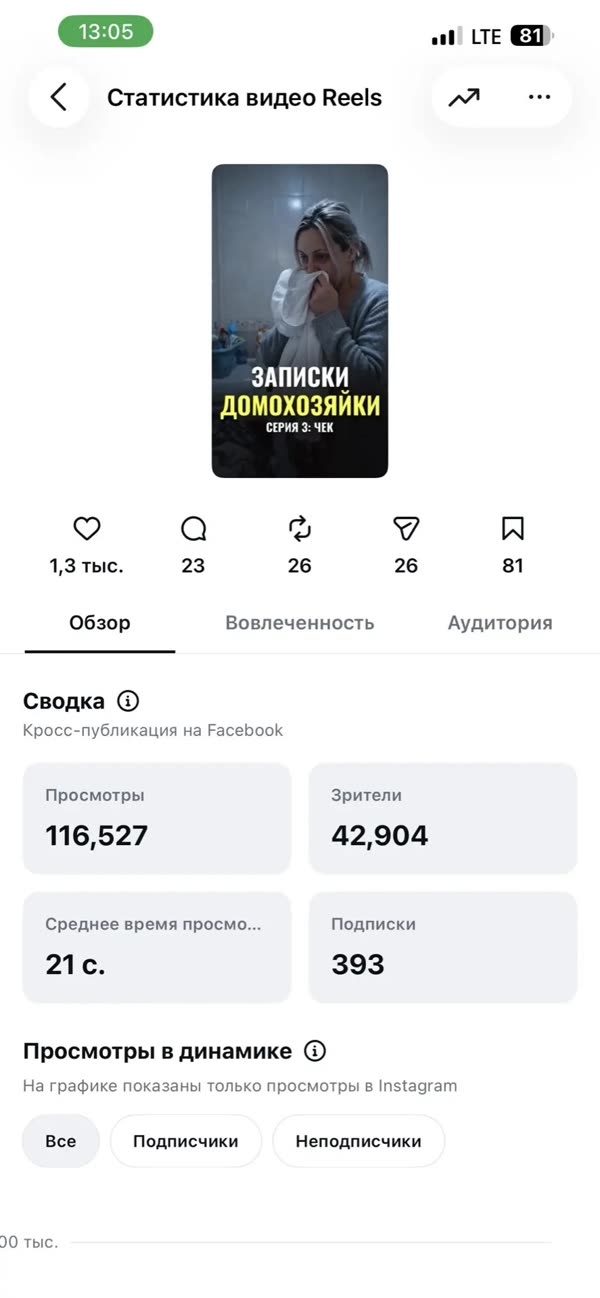
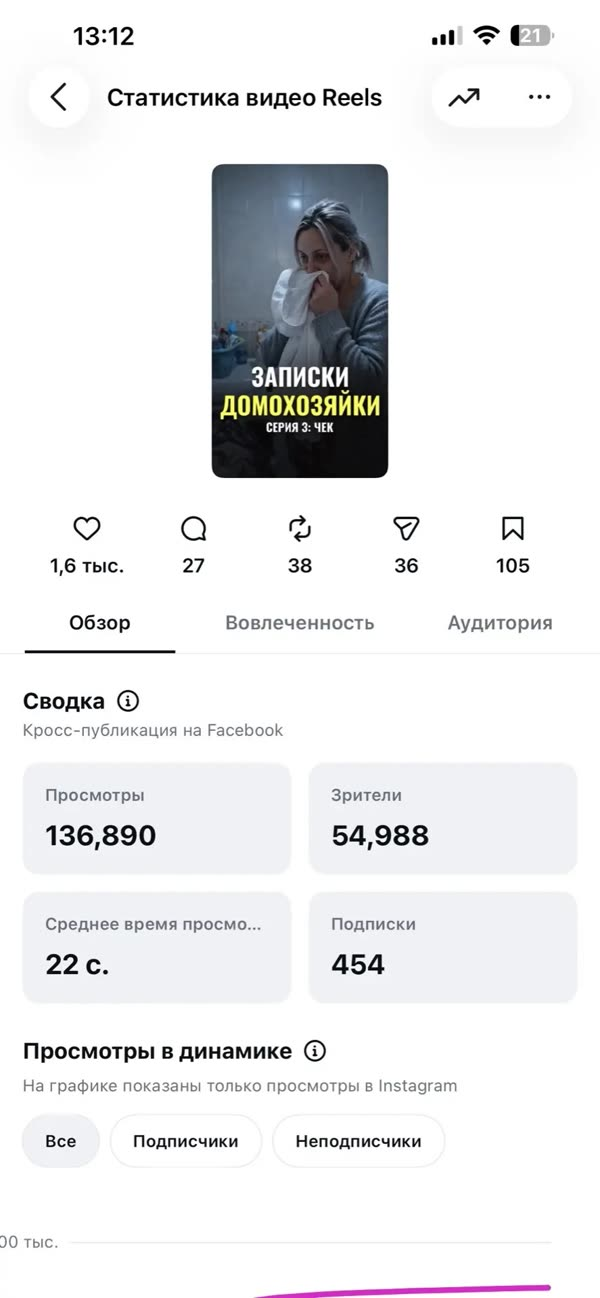
Портфолио: обновлена статистика «Записок домохозяйки» (серии 3, 6, 7)
Claude-Session: https://claude.ai/code/session_01FeqEZFUtWekLSetdRVzskd

diff --git a/scene/public/portfolio/index.html b/scene/public/portfolio/index.html
@@ -195,7 +195,7 @@ footer{position:relative;z-index:1;border-top:1px solid var(--line);padding-bloc
 .kpi.sm b{font-size:clamp(18px,2vw,24px)}
 .kpi span{font-size:13px;color:var(--muted)}
 .shots-head{margin:32px 0 14px;font-family:var(--f-mono);font-size:12px;letter-spacing:.08em;text-transform:uppercase;color:var(--muted)}
-.shots{display:grid;grid-template-columns:repeat(4,minmax(0,1fr));gap:16px}
+.shots{display:grid;grid-template-columns:repeat(3,minmax(0,1fr));gap:16px}
 .shot{position:relative;padding:0;border:1px solid var(--line);border-radius:10px;overflow:hidden;background:#fff;cursor:zoom-in;transition:transform .3s,border-color .3s}
 .shot:hover{transform:translateY(-3px);border-color:var(--accent)}
 .shot img{display:block;width:100%;aspect-ratio:9/13;object-fit:cover;object-position:50% 38%}
@@ -316,22 +316,24 @@ footer{position:relative;z-index:1;border-top:1px solid var(--line);padding-bloc
   <section class="chapter" id="series">
     <div class="ch-head"><span class="ch-num">01</span><div><h2>Сериал «Записки домохозяйки»</h2><p>Драматический сериал в стиле AI-реализма для собственного Instagram. Без рекламного бюджета.</p></div><span class="ch-tc" data-tc="zap1,zap2,zap3,zap4"></span></div>
     <div class="kpis">
-      <div class="kpi hl"><b>1 063 901</b><span>просмотр за 4 серии</span></div>
+      <div class="kpi hl"><b>1 298 879</b><span>просмотров за 6 серий</span></div>
       <div class="kpi"><b>883 713</b><span>просмотров у лучшей серии</span></div>
-      <div class="kpi"><b>+1 320</b><span>подписчиков</span></div>
-      <div class="kpi"><b>326 457</b><span>уникальных зрителей</span></div>
-      <div class="kpi sm"><b>12 900</b><span>лайков</span></div>
-      <div class="kpi sm"><b>877</b><span>отправок</span></div>
-      <div class="kpi sm"><b>765</b><span>сохранений</span></div>
-      <div class="kpi sm"><b>321</b><span>комментарий</span></div>
+      <div class="kpi"><b>+1 688</b><span>подписчиков</span></div>
+      <div class="kpi"><b>418 066</b><span>уникальных зрителей</span></div>
+      <div class="kpi sm"><b>15 400+</b><span>лайков</span></div>
+      <div class="kpi sm"><b>984</b><span>отправки</span></div>
+      <div class="kpi sm"><b>1 029</b><span>сохранений</span></div>
+      <div class="kpi sm"><b>395</b><span>комментариев</span></div>
     </div>
     <div class="grid" data-clips="zap1,zap2,zap3,zap4"></div>
     <div class="shots-head">Статистика Instagram · нажмите, чтобы увеличить</div>
     <div class="shots">
       <button type="button" class="shot" data-img="v/stat1.jpg"><img src="v/stat1.jpg" alt="Статистика серии 1: 883 713 просмотров"><span>Серия 1</span></button>
       <button type="button" class="shot" data-img="v/stat2.jpg"><img src="v/stat2.jpg" alt="Статистика серии 2: 26 281 просмотр"><span>Серия 2</span></button>
-      <button type="button" class="shot" data-img="v/stat3.jpg"><img src="v/stat3.jpg" alt="Статистика серии 3: 116 527 просмотров"><span>Серия 3</span></button>
+      <button type="button" class="shot" data-img="v/stat3.jpg"><img src="v/stat3.jpg" alt="Статистика серии 3: 136 890 просмотров"><span>Серия 3</span></button>
       <button type="button" class="shot" data-img="v/stat4.jpg"><img src="v/stat4.jpg" alt="Статистика серии 4: 37 380 просмотров"><span>Серия 4</span></button>
+      <button type="button" class="shot" data-img="v/stat6.jpg"><img src="v/stat6.jpg" alt="Статистика серии 6: 93 353 просмотра"><span>Серия 6</span></button>
+      <button type="button" class="shot" data-img="v/stat7.jpg"><img src="v/stat7.jpg" alt="Статистика серии 7: 121 262 просмотра"><span>Серия 7</span></button>
     </div>
   </section>
 
@@ -444,7 +446,7 @@ var C={
   kos5:{t:"Серия 5 · Идеальный тон",s:"57 700 просмотров · 115 комментариев",tag:"Серия 5",d:39},
   zap1:{t:"Серия 1 · Невидимка",s:"883 713 просмотров",tag:"Серия 1",d:28},
   zap2:{t:"Серия 2 · Две тысячи",s:"26 281 просмотр",tag:"Серия 2",d:30},
-  zap3:{t:"Серия 3 · Чек",s:"116 527 просмотров",tag:"Серия 3",d:36},
+  zap3:{t:"Серия 3 · Чек",s:"136 890 просмотров",tag:"Серия 3",d:36},
   zap4:{t:"Серия 4 · Для мамы",s:"37 380 просмотров",tag:"Серия 4",d:43},
   bike:{t:"Реклама велосипеда",s:"Детали узлов и катание в движении",tag:"Продукт",d:30},
   bag:{t:"Пакет из бутика",s:"Кинематографичный fashion-сюжет",tag:"Fashion",d:12},
